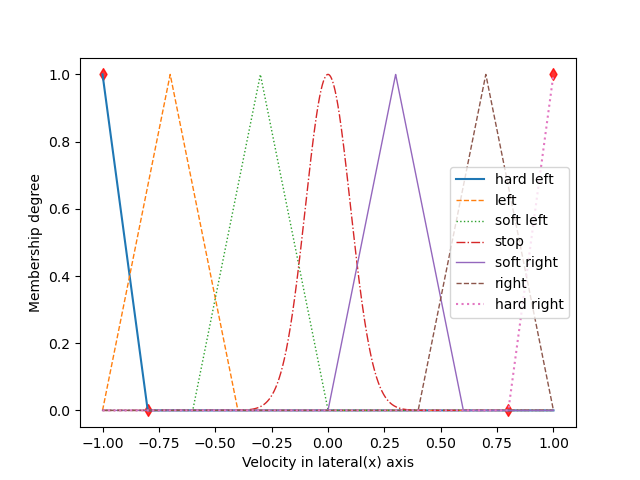
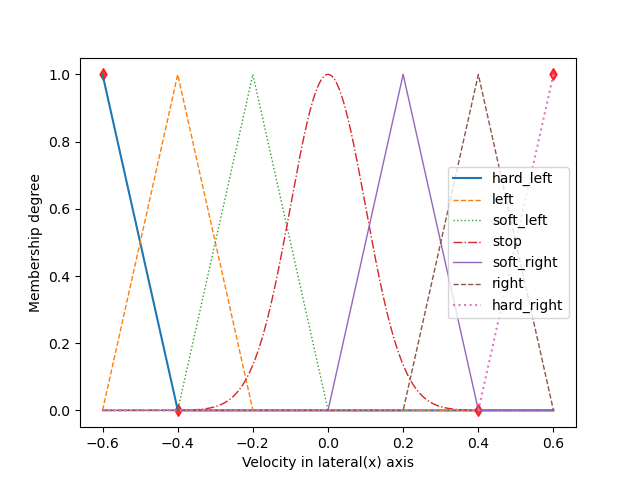
update controller for stability

diff --git a/Controller.py b/Controller.py
@@ -68,25 +68,25 @@ class DroneController:
 
     def SetOutputs(self):       
         Outputs_X = []
-        Outputs_X.append(sf.FuzzySet(points=[[-1.0, 1.0], [-0.8, 0.0]], term = "hard_left", verbose = self.GetLog()))
-        Outputs_X.append(sf.FuzzySet(function=sf.Triangular_MF(-1.0, -0.7, -0.4), term = "left", verbose = self.GetLog()))
-        Outputs_X.append(sf.FuzzySet(function=sf.Triangular_MF(-0.6, -0.3, -0.0), term = "soft_left", verbose = self.GetLog()))
+        Outputs_X.append(sf.FuzzySet(points=[[-0.6, 1.0], [-0.4, 0.0]], term = "hard_left", verbose = self.GetLog()))
+        Outputs_X.append(sf.FuzzySet(function=sf.Triangular_MF(-0.6, -0.4, -0.2), term = "left", verbose = self.GetLog()))
+        Outputs_X.append(sf.FuzzySet(function=sf.Triangular_MF(-0.4, -0.2, -0.0), term = "soft_left", verbose = self.GetLog()))
         Outputs_X.append(sf.FuzzySet(function=sf.Gaussian_MF(0, 0.1), term = "stop", verbose = self.GetLog()))
-        Outputs_X.append(sf.FuzzySet(function=sf.Triangular_MF(0.0, 0.3, 0.6), term = "soft_right", verbose = self.GetLog()))
-        Outputs_X.append(sf.FuzzySet(function=sf.Triangular_MF(0.4, 0.7, 1.0), term = "right", verbose = self.GetLog()))
-        Outputs_X.append(sf.FuzzySet(points=[[0.8, 0.0], [1.0, 1.0]], term = "hard_right", verbose = self.GetLog()))
-        lv_X = sf.LinguisticVariable(Outputs_X, concept = "Velocity in lateral(x) axis", universe_of_discourse = [-1.0, 1.0])
+        Outputs_X.append(sf.FuzzySet(function=sf.Triangular_MF(0.0, 0.2, 0.4), term = "soft_right", verbose = self.GetLog()))
+        Outputs_X.append(sf.FuzzySet(function=sf.Triangular_MF(0.2, 0.4, 0.6), term = "right", verbose = self.GetLog()))
+        Outputs_X.append(sf.FuzzySet(points=[[0.4, 0.0], [0.6, 1.0]], term = "hard_right", verbose = self.GetLog()))
+        lv_X = sf.LinguisticVariable(Outputs_X, concept = "Velocity in lateral(x) axis", universe_of_discourse = [-0.6, 0.6])
         self.GetController().add_linguistic_variable("output_x", lv_X, verbose = self.GetLog())
         
         Outputs_Y = []
-        Outputs_Y.append(sf.FuzzySet(points=[[-1.0, 1.0], [-0.8, 0.0]], term = "ascend_hard", verbose = self.GetLog()))
-        Outputs_Y.append(sf.FuzzySet(function=sf.Triangular_MF(-1.0, -0.7, -0.4), term = "ascend", verbose = self.GetLog()))
-        Outputs_Y.append(sf.FuzzySet(function=sf.Triangular_MF(-0.6, -0.3, -0.0), term = "ascend_light", verbose = self.GetLog()))
+        Outputs_Y.append(sf.FuzzySet(points=[[-0.6, 1.0], [-0.4, 0.0]], term = "ascend_hard", verbose = self.GetLog()))
+        Outputs_Y.append(sf.FuzzySet(function=sf.Triangular_MF(-0.6, -0.4, -0.2), term = "ascend", verbose = self.GetLog()))
+        Outputs_Y.append(sf.FuzzySet(function=sf.Triangular_MF(-0.4, -0.2, -0.0), term = "ascend_light", verbose = self.GetLog()))
         Outputs_Y.append(sf.FuzzySet(function=sf.Gaussian_MF(0, 0.1), term = "hover", verbose = self.GetLog()))
-        Outputs_Y.append(sf.FuzzySet(function=sf.Triangular_MF(0.0, 0.3, 0.6), term = "descend_light", verbose = self.GetLog()))
-        Outputs_Y.append(sf.FuzzySet(function=sf.Triangular_MF(0.4, 0.7, 1.0), term = "descend", verbose = self.GetLog()))
-        Outputs_Y.append(sf.FuzzySet(points=[[0.8, 0.0], [1.0, 1.0]], term = "descend_hard", verbose = self.GetLog()))
-        lv_Y = sf.LinguisticVariable(Outputs_Y, concept = "Velocity in vertical(y) axis", universe_of_discourse = [-1.0, 1.0])
+        Outputs_Y.append(sf.FuzzySet(function=sf.Triangular_MF(0.0, 0.2, 0.4), term = "descend_light", verbose = self.GetLog()))
+        Outputs_Y.append(sf.FuzzySet(function=sf.Triangular_MF(0.2, 0.4, 0.6), term = "descend", verbose = self.GetLog()))
+        Outputs_Y.append(sf.FuzzySet(points=[[0.4, 0.0], [0.6, 1.0]], term = "descend_hard", verbose = self.GetLog()))
+        lv_Y = sf.LinguisticVariable(Outputs_Y, concept = "Velocity in vertical(y) axis", universe_of_discourse = [-0.6, 0.6])
         self.GetController().add_linguistic_variable("output_y", lv_Y, verbose = self.GetLog())
     
     

diff --git a/dronecontroller.py b/dronecontroller.py
@@ -1,5 +1,6 @@
 from math import sqrt
 from Arucodetector import Arucodetector
+import matplotlib.pyplot as plt
 import time
 import concurrent.futures
 import threading
@@ -10,10 +11,15 @@ class ArucoTelloController():
         self.arucodetector = None
         self.dronecontroller = None
         self.detectorprocessor = None
-        self.velocitythread = None
+        self.positionthread = None
         self.controllerthread = None
+        self.X_vec = []
+        self.Y_vec = []
+        self.Z_vec = []
+        self.Theta_vec = []
         self.pid = -1
         self.lock = threading.Lock()
+        self.is_plottng_done = False
         
     def Setup(self, set_detector=True, set_controller=True):
         if set_detector:
@@ -94,11 +100,14 @@ class ArucoTelloController():
     def GetVelocityTheta(self):
         return self.GetVelocity(self.GetDetector().GetClosestMarkerTheta)
     
-    def UpdateVelocity(self):
+    def AppendPositionsInVector(self):
         while self.GetDetector().IsDroneStreaming():
             if self.GetDetector().IsMarkerDetected():
-               print(sqrt(self.GetVelocityX()**2 + self.GetVelocityY()**2 + self.GetVelocityZ()**2))
-            time.sleep(0.001)
+                self.X_vec.append(self.GetDetector().GetClosestMarkerX())
+                self.Y_vec.append(self.GetDetector().GetClosestMarkerY())
+                self.Z_vec.append(self.GetDetector().GetClosestMarkerZ())
+                self.Theta_vec.append(self.GetDetector().GetClosestMarkerTheta())
+            time.sleep(0.01)
         return 0
     
     def ControlDrone(self):
@@ -170,14 +179,31 @@ class ArucoTelloController():
                 self.Fly(fly)
                 with concurrent.futures.ThreadPoolExecutor(max_workers=3) as executor:
                     self.detectorprocessor = executor.submit(self.GetDetector().Run)
-                    self.velocitythread = executor.submit(self.UpdateVelocity)
+                    self.positionthread = executor.submit(self.AppendPositionsInVector)
                     self.controllerthread = executor.submit(self.ControlDrone)
             except Exception as e:
                 return e
             finally:
-                return self.detectorprocessor.result(), self.velocitythread.result(), self.controllerthread.result()
+                self.PlotPositions()
+                return self.detectorprocessor.result(), self.positionthread.result(), self.controllerthread.result()
         else:
             return "Complete!", 0, 0
+    
+    def PlotPositions(self):
+        self.X_vec = np.array(self.X_vec)
+        self.Y_vec = np.array(self.Y_vec)
+        self.Z_vec = np.array(self.Z_vec)
+        self.Theta_vec = np.array(self.Theta_vec)
+        plt.plot(self.X_vec, label="X")
+        plt.plot(self.Y_vec, label="Y")
+        plt.plot(self.Z_vec, label="Z")
+        plt.plot(self.Theta_vec, label="Theta")
+        plt.legend(loc="upper left")
+        plt.xlabel("timestep")
+        plt.ylabel("distance to the marker")
+        plt.show()
+        self.is_plottng_done = True
+                
     
     def End(self):
         if self.GetDetector().IsDroneConnected():

diff --git a/main.py b/main.py
@@ -21,15 +21,15 @@ def main():
     # finally:
     #     drone.End()
     #     # cv.destroyAllWindows()
-        Outputs_Z = []
-        Outputs_Z.append(sf.FuzzySet(points=[[-0.5, 1.0], [-0.3, 0.0]], term = "fast_reverse"))
-        Outputs_Z.append(sf.FuzzySet(function=sf.Triangular_MF(-0.5, -0.3, -0.1), term = "reverse"))
-        Outputs_Z.append(sf.FuzzySet(function=sf.Triangular_MF(-0.3, -0.1, -0.0), term = "slow_reverse"))
-        Outputs_Z.append(sf.FuzzySet(function=sf.Gaussian_MF(0, 0.1), term = "stop"))
-        Outputs_Z.append(sf.FuzzySet(function=sf.Triangular_MF(0.0, 0.1, 0.3), term = "slow_forward"))
-        Outputs_Z.append(sf.FuzzySet(function=sf.Triangular_MF(0.1, 0.3, 0.5), term = "forward"))
-        Outputs_Z.append(sf.FuzzySet(points=[[0.3, 0.0], [0.5, 1.0]], term = "fast_forward"))
-        lv_Z = sf.LinguisticVariable(Outputs_Z, concept = "Velocity in longitual(z) axis", universe_of_discourse = [-0.5, 0.5])
-        lv_Z.plot()
+        Outputs_Y = []
+        Outputs_Y.append(sf.FuzzySet(points=[[-0.6, 1.0], [-0.4, 0.0]], term = "ascend_hard"))
+        Outputs_Y.append(sf.FuzzySet(function=sf.Triangular_MF(-0.6, -0.4, -0.2), term = "ascend"))
+        Outputs_Y.append(sf.FuzzySet(function=sf.Triangular_MF(-0.4, -0.2, -0.0), term = "ascend_light"))
+        Outputs_Y.append(sf.FuzzySet(function=sf.Gaussian_MF(0, 0.1), term = "hover"))
+        Outputs_Y.append(sf.FuzzySet(function=sf.Triangular_MF(0.0, 0.2, 0.4), term = "descend_light"))
+        Outputs_Y.append(sf.FuzzySet(function=sf.Triangular_MF(0.2, 0.4, 0.6), term = "descend"))
+        Outputs_Y.append(sf.FuzzySet(points=[[0.4, 0.0], [0.6, 1.0]], term = "descend_hard"))
+        lv_Y = sf.LinguisticVariable(Outputs_Y, concept = "Velocity in vertical(y) axis", universe_of_discourse = [-0.6, 0.6])
+        lv_Y.plot()
 if __name__ == '__main__':
     main()

diff --git a/test_ArucoDrone.py b/test_ArucoDrone.py
@@ -183,6 +183,13 @@ class TestDroneControllerLive(unittest.TestCase):
         self.assertEqual(detector_return_value, "Complete!")
         self.assertEqual(velocity_return_value, 0)
         self.assertEqual(control_return_value, 0)
+        
+    def test_DRone_Live_Flight_PrintPos(self):
+        detector_return_value, velocity_return_value, control_return_value = self.drone.Run(fly = True)
+        self.assertEqual(detector_return_value, "Complete!")
+        self.assertEqual(velocity_return_value, 0)
+        self.assertEqual(control_return_value, 0)
+        self.assertTrue(self.drone.is_plottng_done)
 
 if __name__ == '__main__':
     unittest.main()
